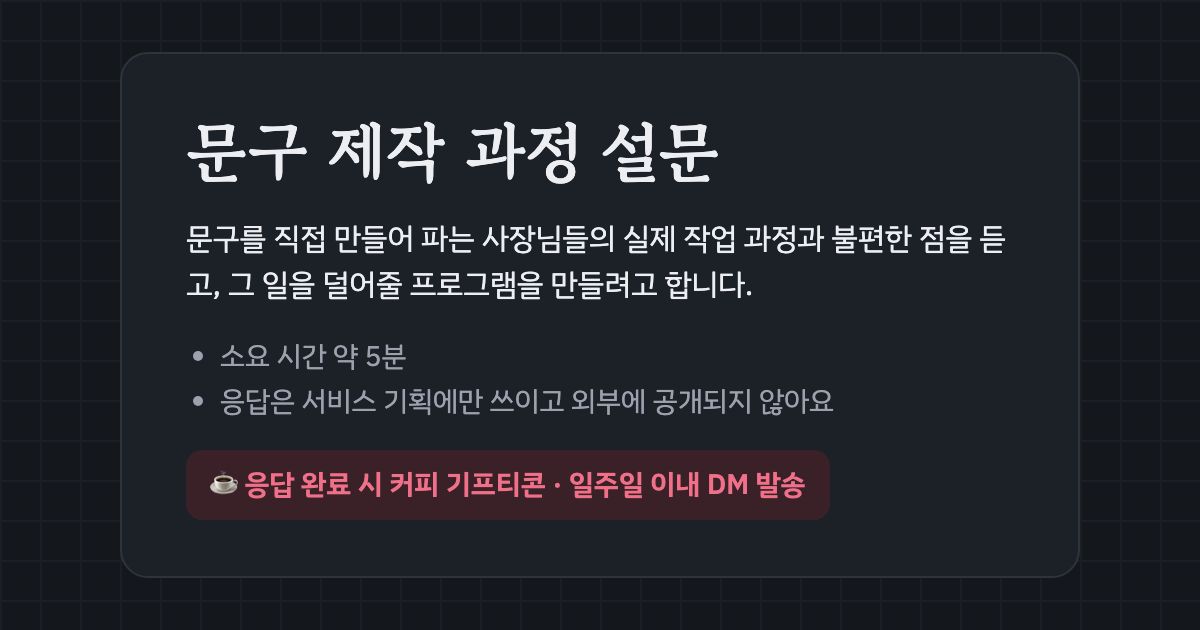
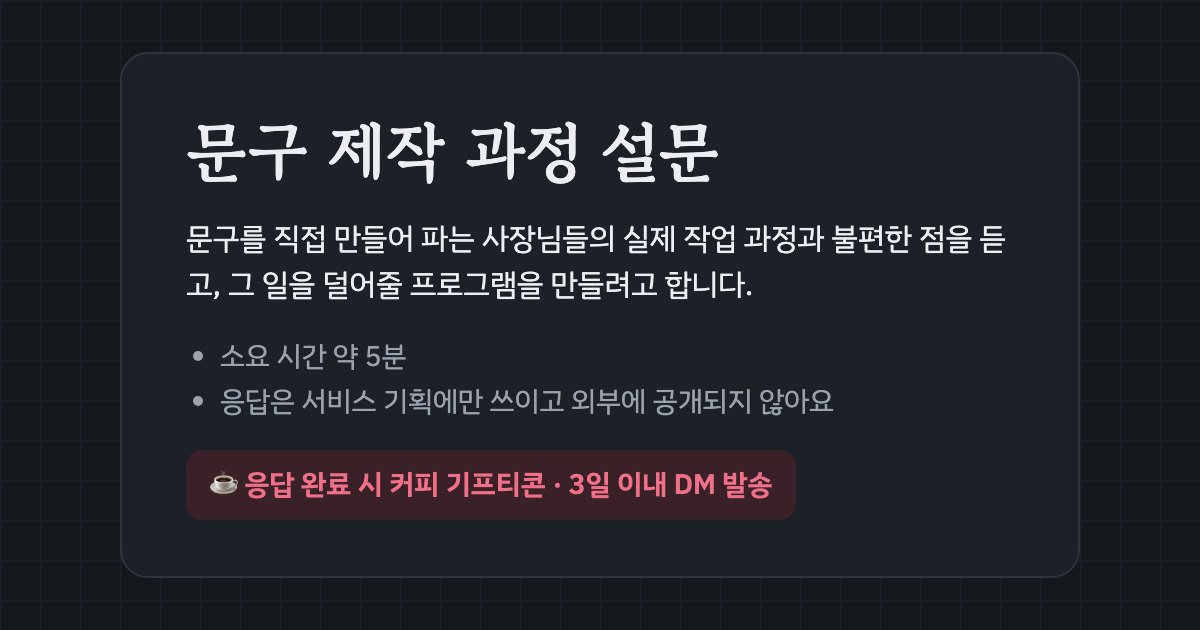
Gifticon within 3 days on intro and link preview
Claude-Session: https://claude.ai/code/session_01MNeZgQq9jzQGXQs4MExRJR

Changed region(s): [[0.4625, 0.6937, 0.7092, 0.8444]]

diff --git a/index.html b/index.html
@@ -186,7 +186,7 @@ body{margin:0}
     c.appendChild(el('p',null,'문구를 직접 만들어 파는 사장님들의 실제 작업 과정과 불편한 점을 듣고, 그 일을 덜어줄 프로그램을 만들려고 합니다.'));
     var ul = el('ul'); ['소요 시간 약 5분','응답은 서비스 기획에만 쓰이고 외부에 공개되지 않아요'].forEach(function(t){ ul.appendChild(el('li',null,t)); });
     c.appendChild(ul);
-    c.appendChild(el('span','reward','☕ 응답 완료 시 커피 기프티콘 · 일주일 이내 DM 발송'));
+    c.appendChild(el('span','reward','☕ 응답 완료 시 커피 기프티콘 · 3일 이내 DM 발송'));
     return c;
   }
 
